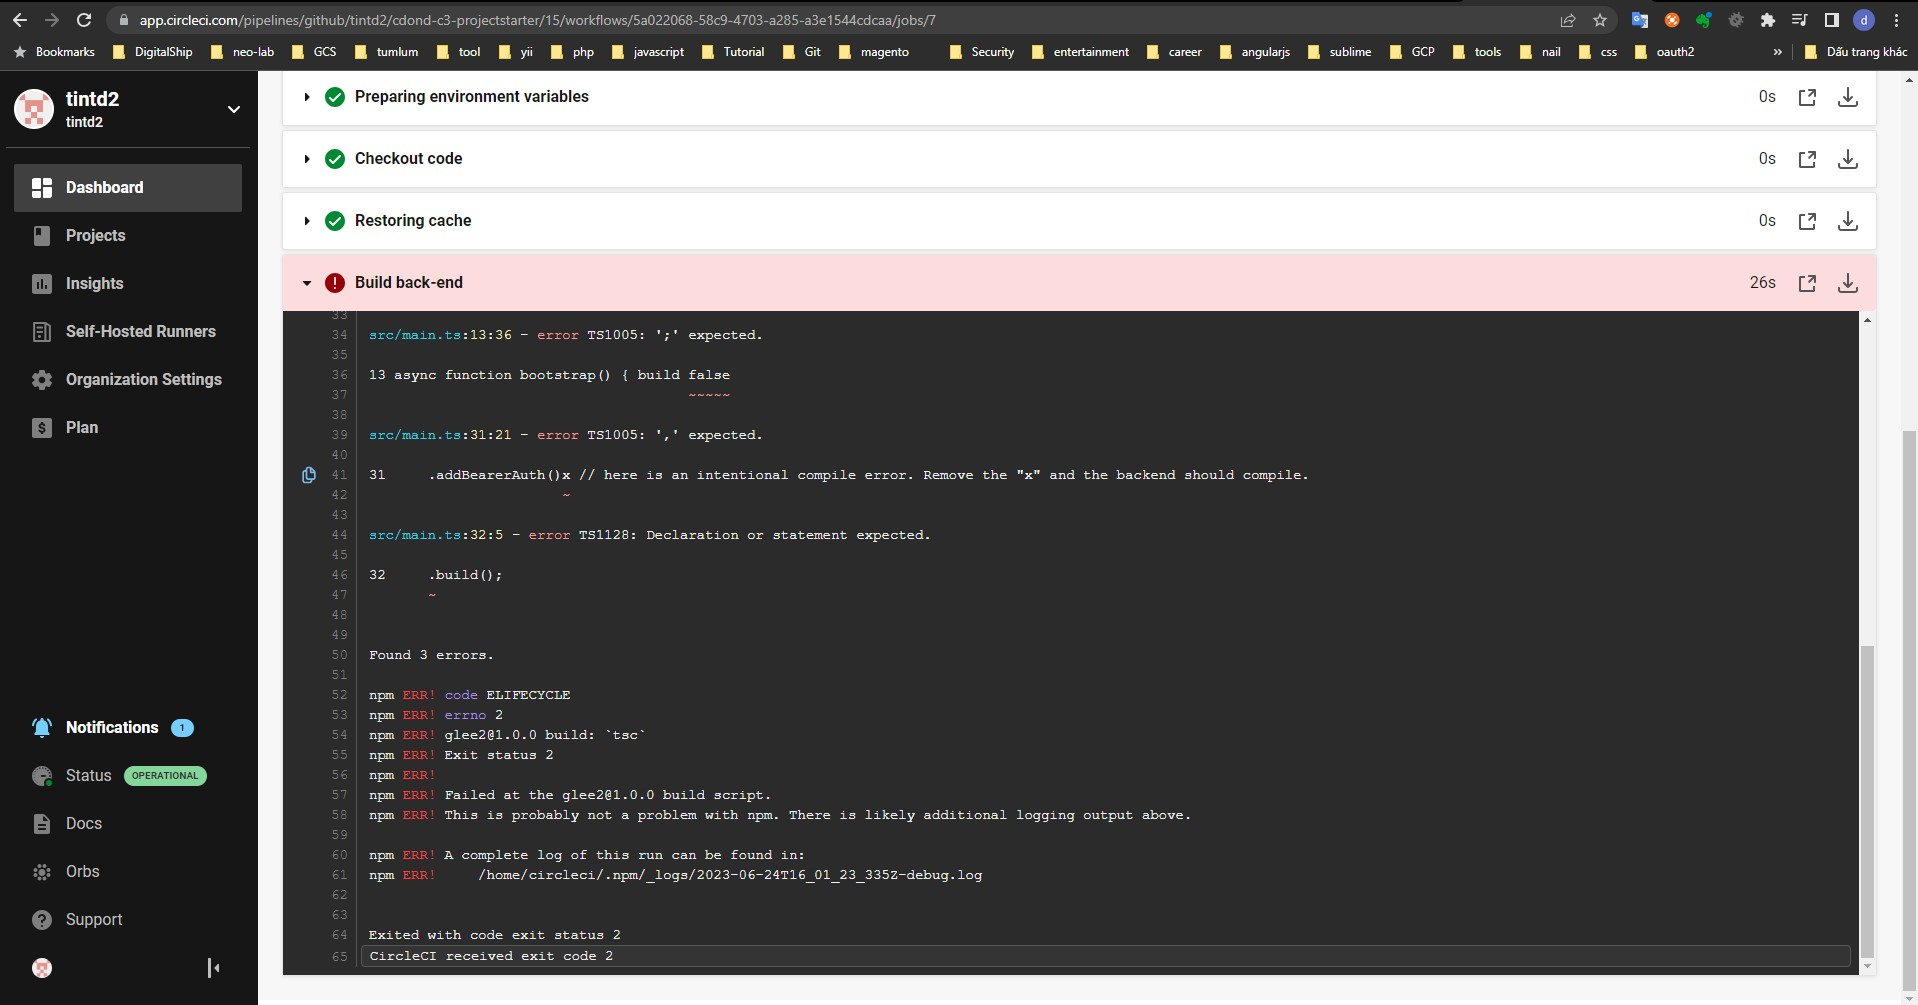
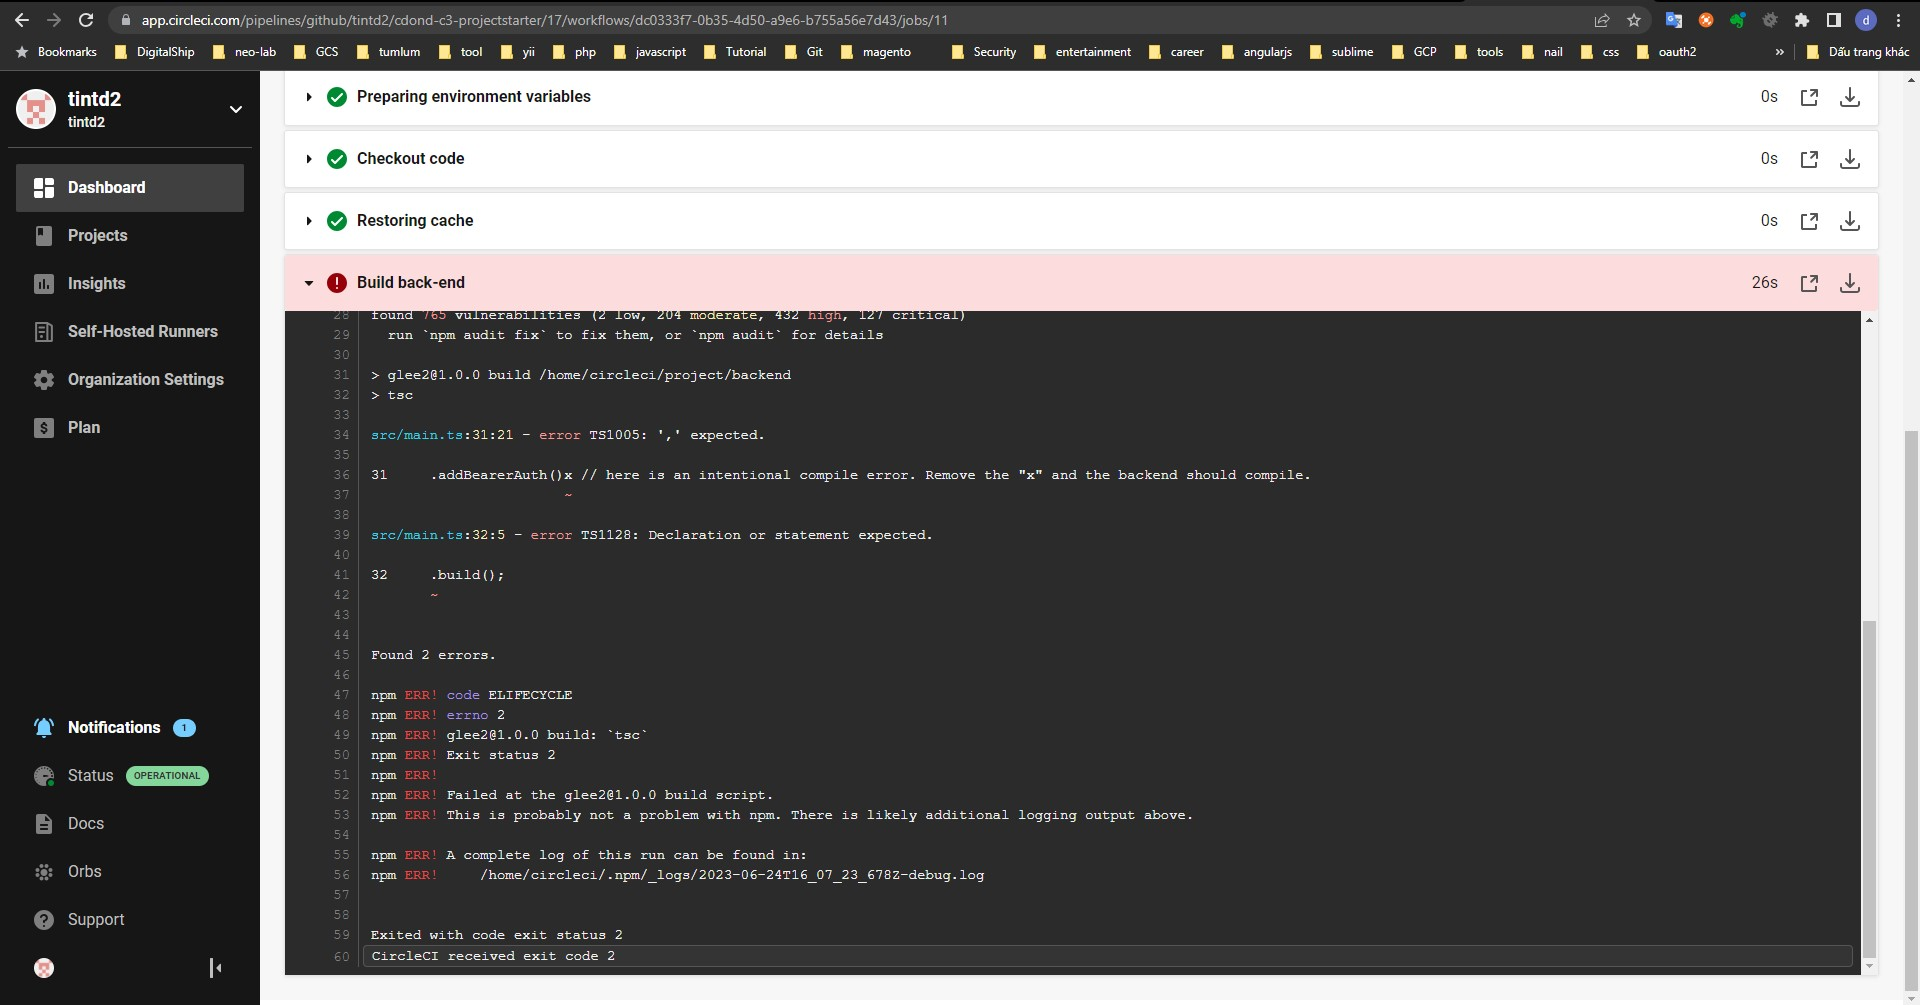
build frontend

diff --git a/backend/src/main.ts b/backend/src/main.ts
@@ -28,7 +28,7 @@ async function bootstrap() {
     .setVersion('1.0')
     .addTag('customTag')
     .setBasePath(apiVersionPrefix)
-    .addBearerAuth()x // here is an intentional compile error. Remove the "x" and the backend should compile.
+    .addBearerAuth() // here is an intentional compile error. Remove the "x" and the backend should compile.
     .build();
   const document = SwaggerModule.createDocument(app, options);
   SwaggerModule.setup(`api/${apiVersionPrefix}`, app, document);
